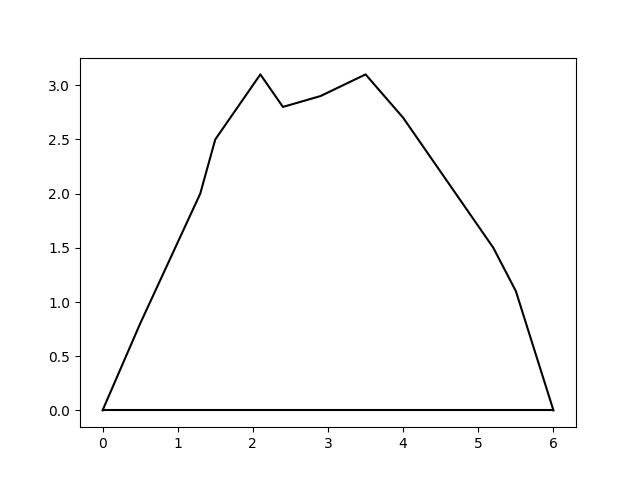
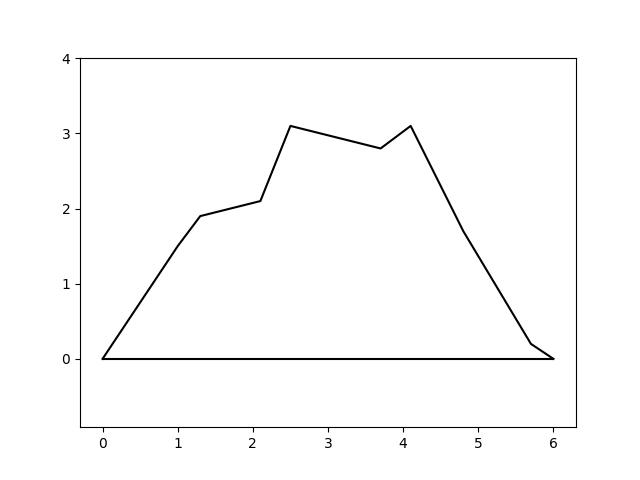
ggg

diff --git a/kod_5.py b/kod_5.py
@@ -1,20 +1,97 @@
-import matplotlib.pyplot as plt
 import numpy as np
+from scipy.integrate import odeint
+import matplotlib.pyplot as plt
+from matplotlib.animation import FuncAnimation
 
+# Определяем переменную величину
+frames = 200
+t = np.linspace(0, 5, frames)
 
-def circle_plotter():
+# Определяем функцию для системы диф. уравнений
+def move_func(z, t):
+    (x1, vx1, y1, vy1,
+    x2, vx2, y2, vy2,
+    x3, vx3, y3, vy3) = z
     
-    alpha = 45
-    v_0 = 5
+    dx_dt1 = vx1
+    dvx_dt1 = 0
+    dy_dt1 = vy1
+    dvy_dt1 = - g
+
+    if t > 2:
+        dx_dt2 = vx2
+        dvx_dt2 = 0
+        dy_dt2 = vy2
+        dvy_dt2 = - g
+    else:
+        dx_dt2 = 0
+        dvx_dt2 = 0
+        dy_dt2 = 0
+        dvy_dt2 = 0
 
     
-    x = np.arange(0, 5, 1)
-    y = x * np.tan(alpha) - (9.8 * x ** 2) / (2 * v_0 ** 2 * np.cos(alpha) ** 2)
 
-    plt.plot(x, y)
-    plt.axis('equal')
-    plt.savefig('kod_5.png')
+    dx_dt3 = vx3
+    dvx_dt3 = 0.5 * np.cos(t)
+    dy_dt3 = vy3
+    dvy_dt3 = 0.1
+    
+    return (dx_dt1, dvx_dt1, dy_dt1, dvy_dt1,
+            dx_dt2, dvx_dt2, dy_dt2, dvy_dt2,
+            dx_dt3, dvx_dt3, dy_dt3, dvy_dt3)
+
+# Определяем начальные значения и параметры
+g = 9.8
+
+v01 = 5
+alpha1 = np.deg2rad(80)
+x01 = 2.5
+vx01 = v01 * np.cos(alpha1)
+y01 = 2.5
+vy01 = v01 * np.sin(alpha1)
+
+v02 = 7
+alpha2 = np.deg2rad(80)
+x02 = 2.5
+vx02 = - v02 * np.cos(alpha2)
+y02 = 2.5
+vy02 = v02 * np.sin(alpha2)
+
+v03 = 0.1
+alpha3 = np.deg2rad(90)
+x03 = 2.5
+vx03 = - v03 * np.cos(alpha3)
+y03 = 2.5
+vy03 = v03 * np.sin(alpha3)
+
+z0 = (x01, vx01, y01, vy01,
+      x02, vx02, y02, vy02,
+      x03, vx03, y03, vy03)
+
+sol = odeint(move_func, z0, t)
+
+fig, ax = plt.subplots()
+
+ball1, = plt.plot([], [], 'o', color='r')
+ball2, = plt.plot([], [], 'o', color='r')
+ball3, = plt.plot([], [], 'o', color='b')
+ball_line, = plt.plot([], [], '-', color='r')
 
 
-if __name__ == '__main__':
-    circle_plotter()
+
+
+def animate(i):
+    ball1.set_data([sol[i][0]], [sol[i][2]])
+    ball2.set_data([sol[i][4]], [sol[i][6]])
+    ball3.set_data([sol[i][8]], [sol[i][10]])
+    # ball_line.set_data(sol[:i, 0], sol[:i, 2])
+
+
+ani = FuncAnimation(fig, animate, frames=frames, interval=30)
+
+edge = 5
+ax.set_xlim(0, edge)
+ax.set_ylim(0, edge)
+
+	
+ani.save('Vulcano.gif', writer="pillow")

diff --git a/po.py b/po.py
@@ -1,7 +1,37 @@
+from matplotlib.animation import FuncAnimation
 import matplotlib.pyplot as plt
-iksi=[0.0, 1.0, 1.3, 2.1, 2.5, 3.7, 4.8, 5.7, 6.0]
-igriki=[0.0, 1.5, 2.3, 2.1, 3.1, 2.8, 3.1, 1.7, 0.2, 0.0]
+import numpy as np
 
-plt.plot(iksi, igriki, color = 'black', marker = '.', ms = 8)
-plt.axis('equal')
-plt.savefig('po.jpg')
+iksi = [0, 1.0, 1.3, 2.1, 2.5, 3.7, 4.1, 4.8, 5.7, 6.0]
+igriki=[0, 1.5, 1.9, 2.1, 3.1, 2.8, 3.1, 1.7, 0.2, 0]
+
+
+
+
+def circle_move(R, angle_vel, time):
+    alpha = angle_vel * np.pi / 180 * time
+    x = R * np.cos(alpha)
+    y = R * np.sin(alpha)
+    return x, y
+
+
+def animate(i):
+    ball.set_data(circle_move(R=2, angle_vel=1, time=i))
+
+
+if __name__ == '__main__':
+    plt.plot(iksi, igriki, color = 'black', ms = 8)
+    plt.plot([0, 6], [0, 0], color = 'black', ms = 8)
+    
+
+    fig, ax = plt.subplots()
+    ball, = plt.plot([], [], 'o', color='r', label='Ball')
+
+    edge = 3
+    plt.axis('equal')
+    ax.set_xlim(-edge, edge)
+    ax.set_ylim(-edge, edge)
+
+    ani = FuncAnimation(fig, animate, frames=180, interval=30)
+
+    ani.save('animation_2.gif') 
